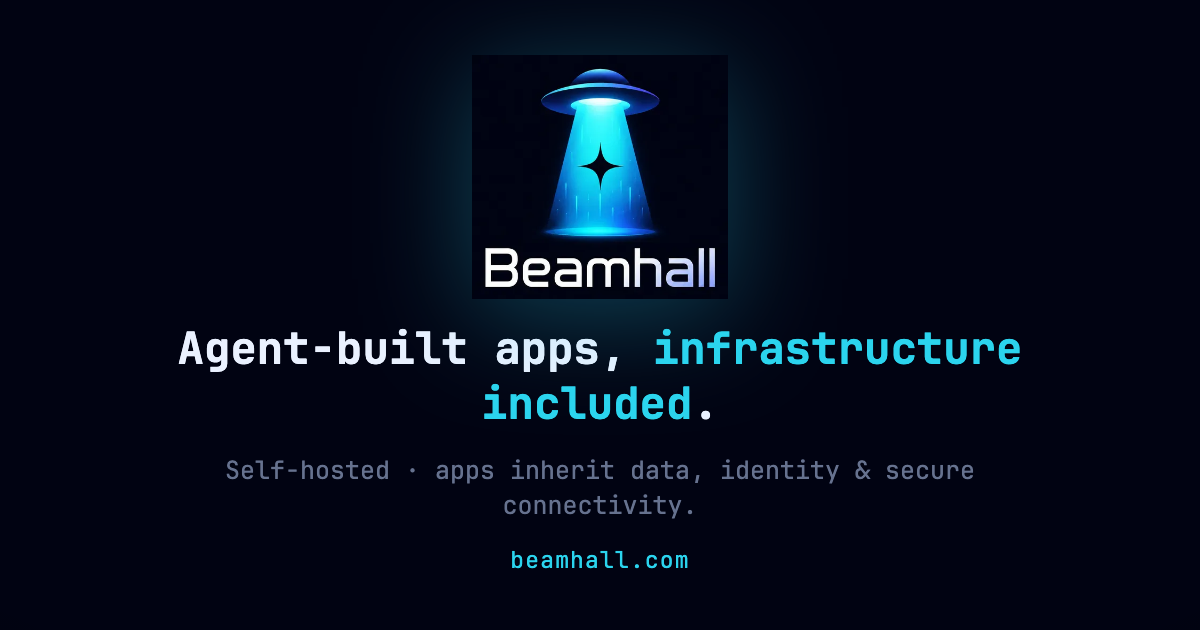
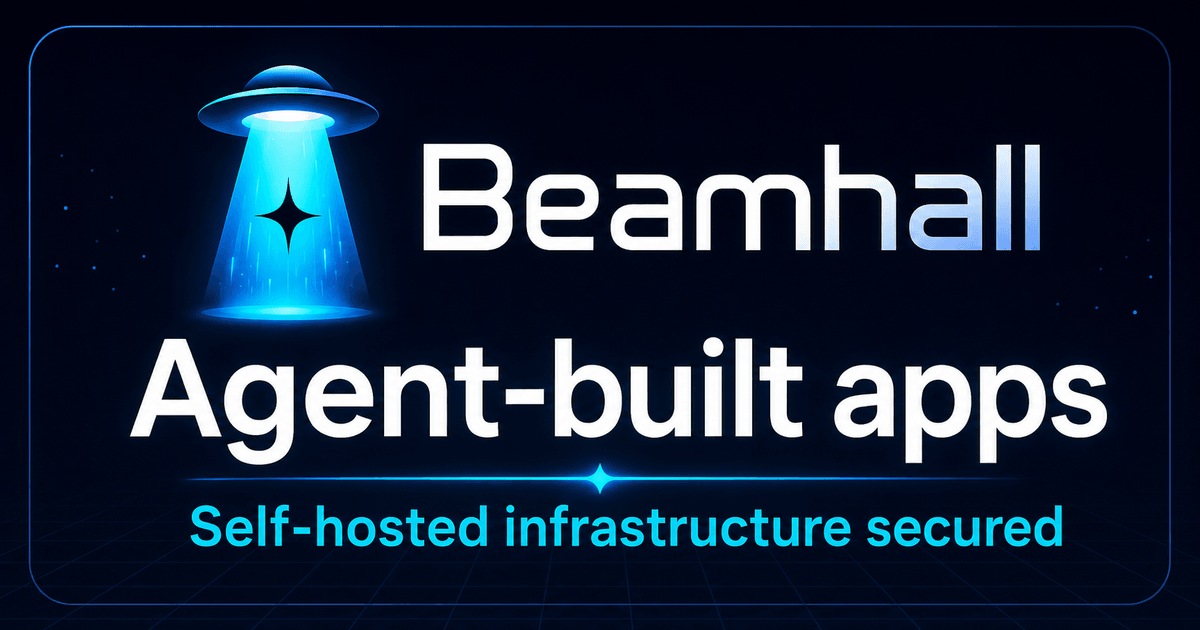
website: make the brand artwork the default share card for every shared link
public/og.png is now the Beamhall artwork (1200x630, palette-encoded to ~250 KB
so platforms don't skip it) instead of the generated terminal card. The
full-resolution master is committed at src/assets/social-share-image.png and
the README documents the one-liner that re-derives the served file.

The share card is also no longer hardcoded per page. src/seo.ts owns the URL,
dimensions, MIME type and alt text; the landing page and the article read it
for og:image, twitter:image and the article's JSON-LD image object, so a future
swap is a one-file change and any new page inherits the default.

src/pages/og.astro is marked superseded — re-rendering it would overwrite the
artwork.

Changed region(s): [[0.0308, 0.0302, 0.925, 0.9048], [0.0308, 0.9349, 0.9558, 0.9651]]

diff --git a/website/src/seo.ts b/website/src/seo.ts
@@ -1,0 +1,32 @@
+// Site-wide SEO/social defaults.
+//
+// The share card is the ONE image every shared link falls back to — Slack,
+// X/Twitter, LinkedIn, Discord, iMessage, WhatsApp, Facebook and Google's
+// social preview all read `og:image` / `twitter:image`. Any new page should
+// spread `ogImageTags()` into its <head> rather than hardcoding a path, so a
+// future card swap is a one-file change.
+//
+// The served card lives at public/og.png (1200x630, the aspect every platform
+// crops to). The full-resolution master is src/assets/social-share-image.png —
+// re-derive the served card from it with:
+//
+//   node -e "require('sharp')('src/assets/social-share-image.png') \
+//     .resize(1200,630,{fit:'cover'}).png({palette:true,effort:10}) \
+//     .toFile('public/og.png')"
+//
+// Keep it under ~300 KB: several platforms silently skip larger cards.
+
+/** Canonical origin. Mirrors `site` in astro.config.mjs. */
+export const SITE = "https://beamhall.com";
+
+/** The default share card for every page that does not override it. */
+export const ogImage = {
+  path: "/og.png",
+  width: 1200,
+  height: 630,
+  type: "image/png",
+  alt: "Beamhall — agent-built apps. Self-hosted infrastructure secured.",
+} as const;
+
+/** Absolute URL of the share card (crawlers reject relative ones). */
+export const ogImageUrl = `${SITE}${ogImage.path}`;

diff --git a/website/README.md b/website/README.md
@@ -54,7 +54,8 @@ deep-linkable via `#<id>` (e.g. `/#security`).
 Standalone routes are plain Astro pages that import `Sidebar` with
 `mode="links"` and both stylesheets, and put the content inside
 `.term-body > .screen.active > article.article`. They carry their own
-`<title>` / description / keywords / canonical / OG tags and reuse `/og.png`.
+`<title>` / description / keywords / canonical / OG tags, taking the share
+card from `src/seo.ts` (see Social share card below).
 
 Add one to the menu by appending to `pages` in `src/nav.ts` — it renders after
 the screens and keeps the `1`–`N` keyboard numbering (`public/nav.js` follows the
@@ -116,19 +117,30 @@ header back to the HTML page so it never competes with it in search.
 
 ## Social share card (Open Graph)
 
-`public/og.png` (1200×630) is the link-preview image used by WhatsApp, Slack,
-iMessage, Twitter/X, etc. (wired via `og:image` / `twitter:image` in
-`index.astro`). It's rendered from the `/og` route. To regenerate after a brand or
-copy change:
+`public/og.png` (1200×630) is the link-preview image every shared link falls
+back to — Slack, iMessage, WhatsApp, X/Twitter, LinkedIn, Discord, Facebook and
+Google's social preview all read it.
+
+It is **brand artwork, not a generated card.** The full-resolution master is
+`src/assets/social-share-image.png`; the served file is derived from it:
 
 ```sh
-npm run preview &      # serve the built site
-"/Applications/Google Chrome.app/Contents/MacOS/Google Chrome" \
-  --headless=new --hide-scrollbars --force-device-scale-factor=1 \
-  --window-size=1200,630 --screenshot=public/og.png http://localhost:4321/og
+node -e "require('sharp')('src/assets/social-share-image.png') \
+  .resize(1200,630,{fit:'cover'}).png({palette:true,effort:10}) \
+  .toFile('public/og.png')"
 ```
 
-Keep it under ~300 KB so WhatsApp shows the large preview.
+Keep it under ~300 KB — several platforms silently skip larger cards (the
+current file is ~250 KB; the palette encode is what gets it there).
+
+Pages never hardcode the path: `src/seo.ts` owns the URL, dimensions, MIME type
+and alt text, and both pages spread it into `og:image` / `twitter:image` and the
+article's JSON-LD. Swapping the card is a one-file change — replace `og.png`
+(and the master) and update `alt` in `src/seo.ts` if the artwork says something
+different.
+
+`src/pages/og.astro` is the **superseded** generated card, kept as a noindex
+route for reproducibility. Do not re-render it over `public/og.png`.
 
 ## Deploy to Cloudflare (Worker, Static Assets)
 
